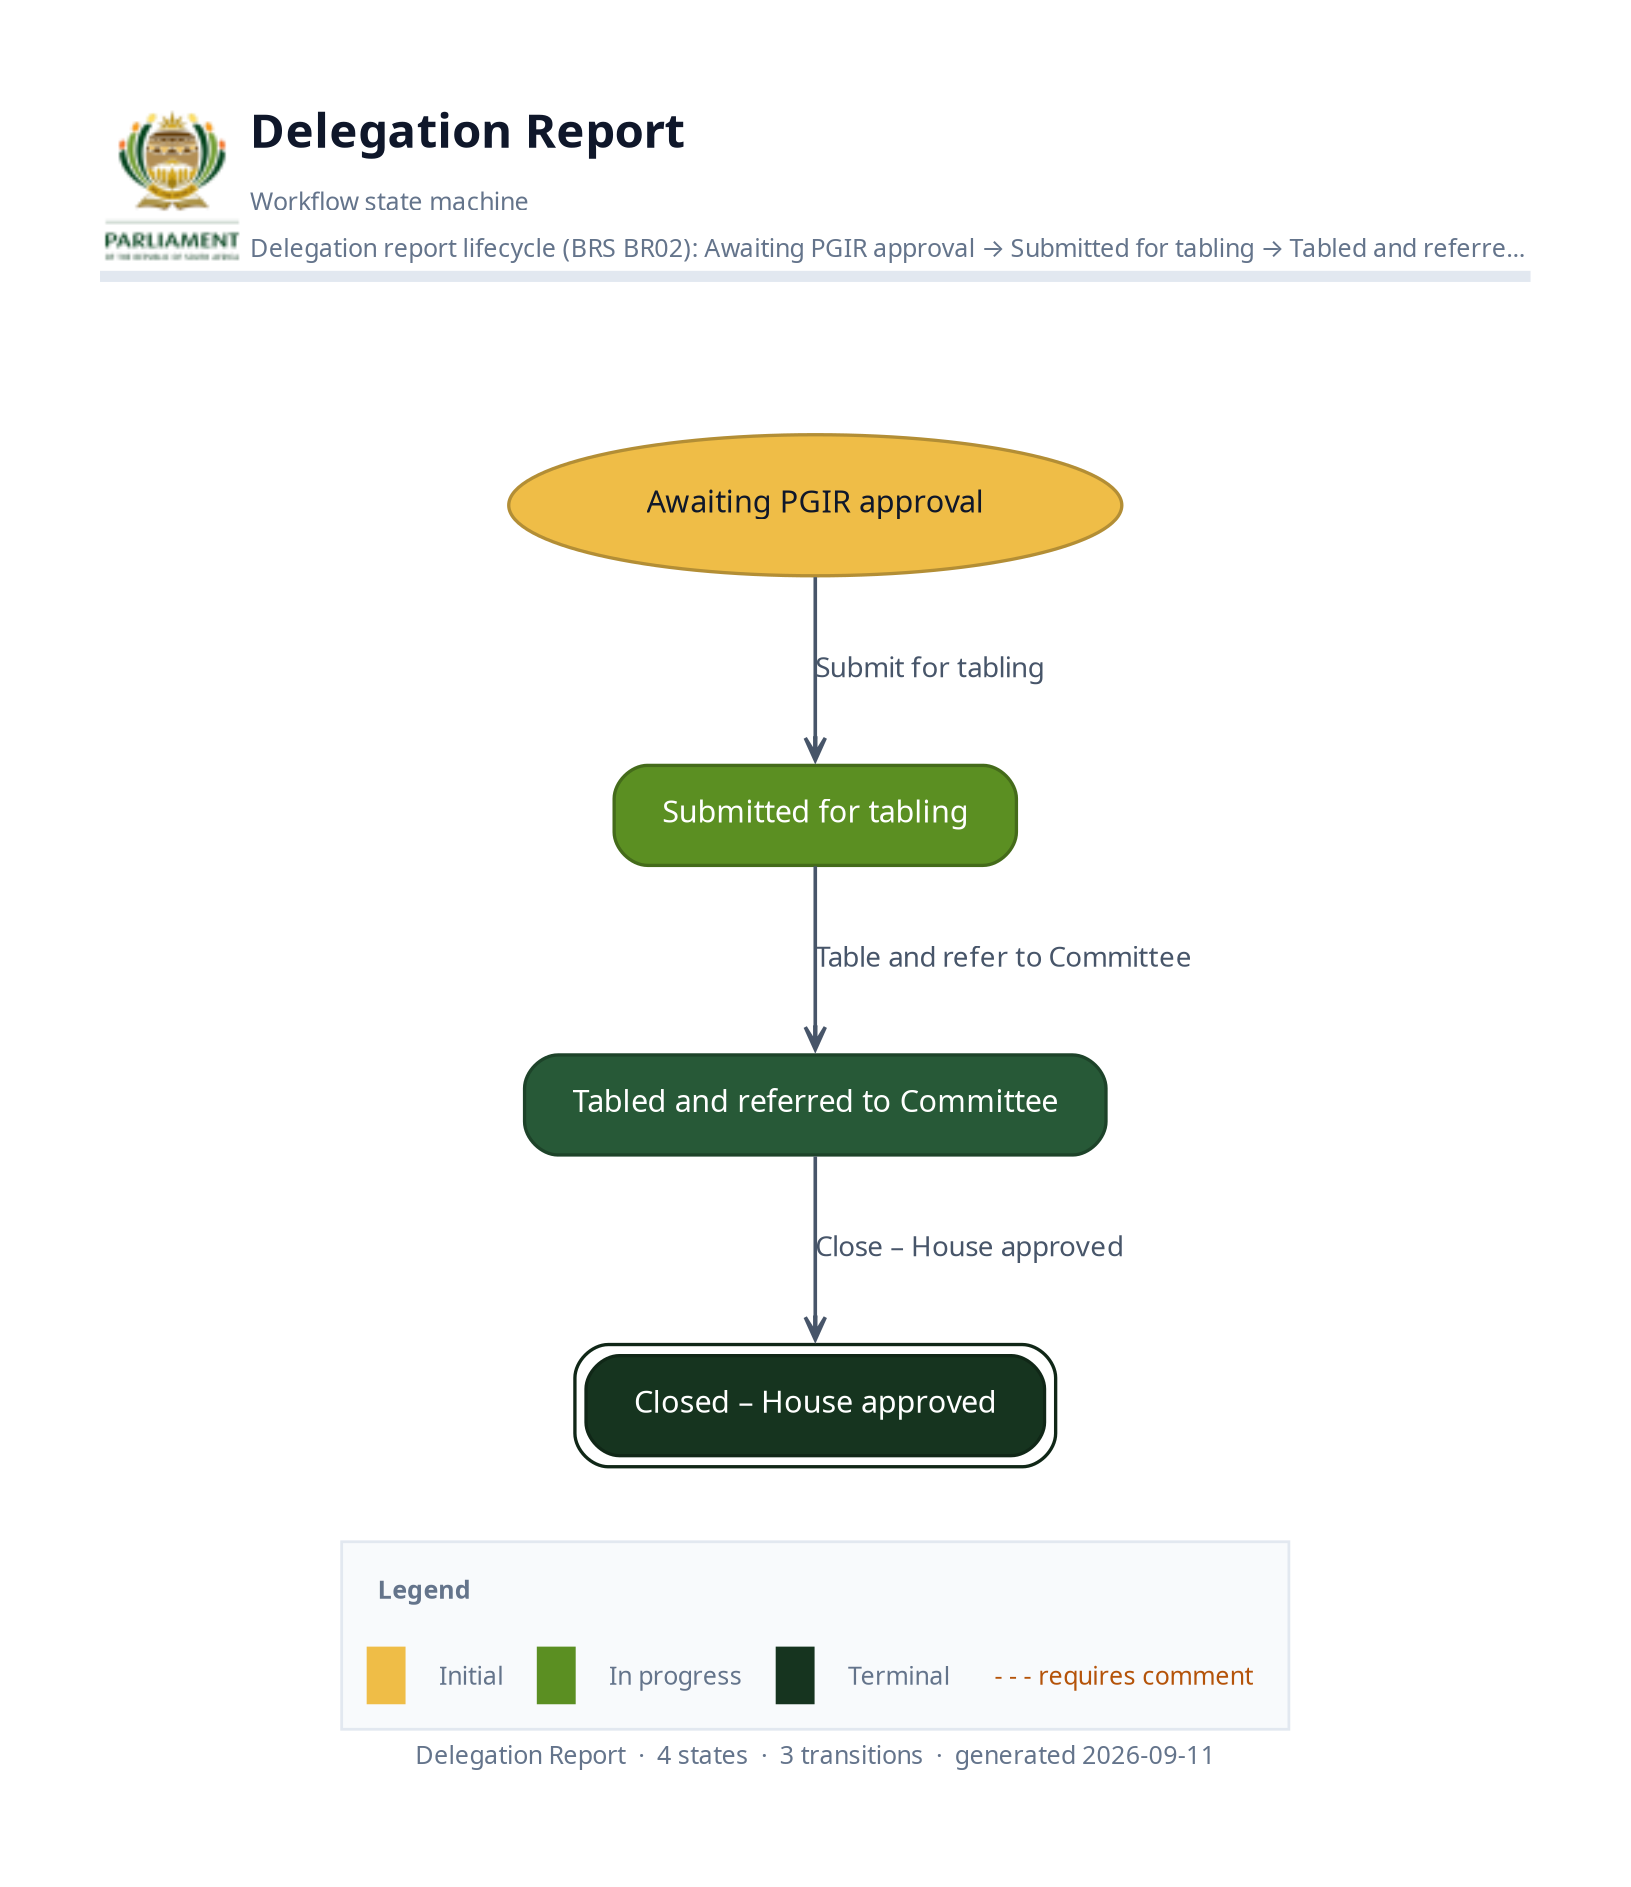
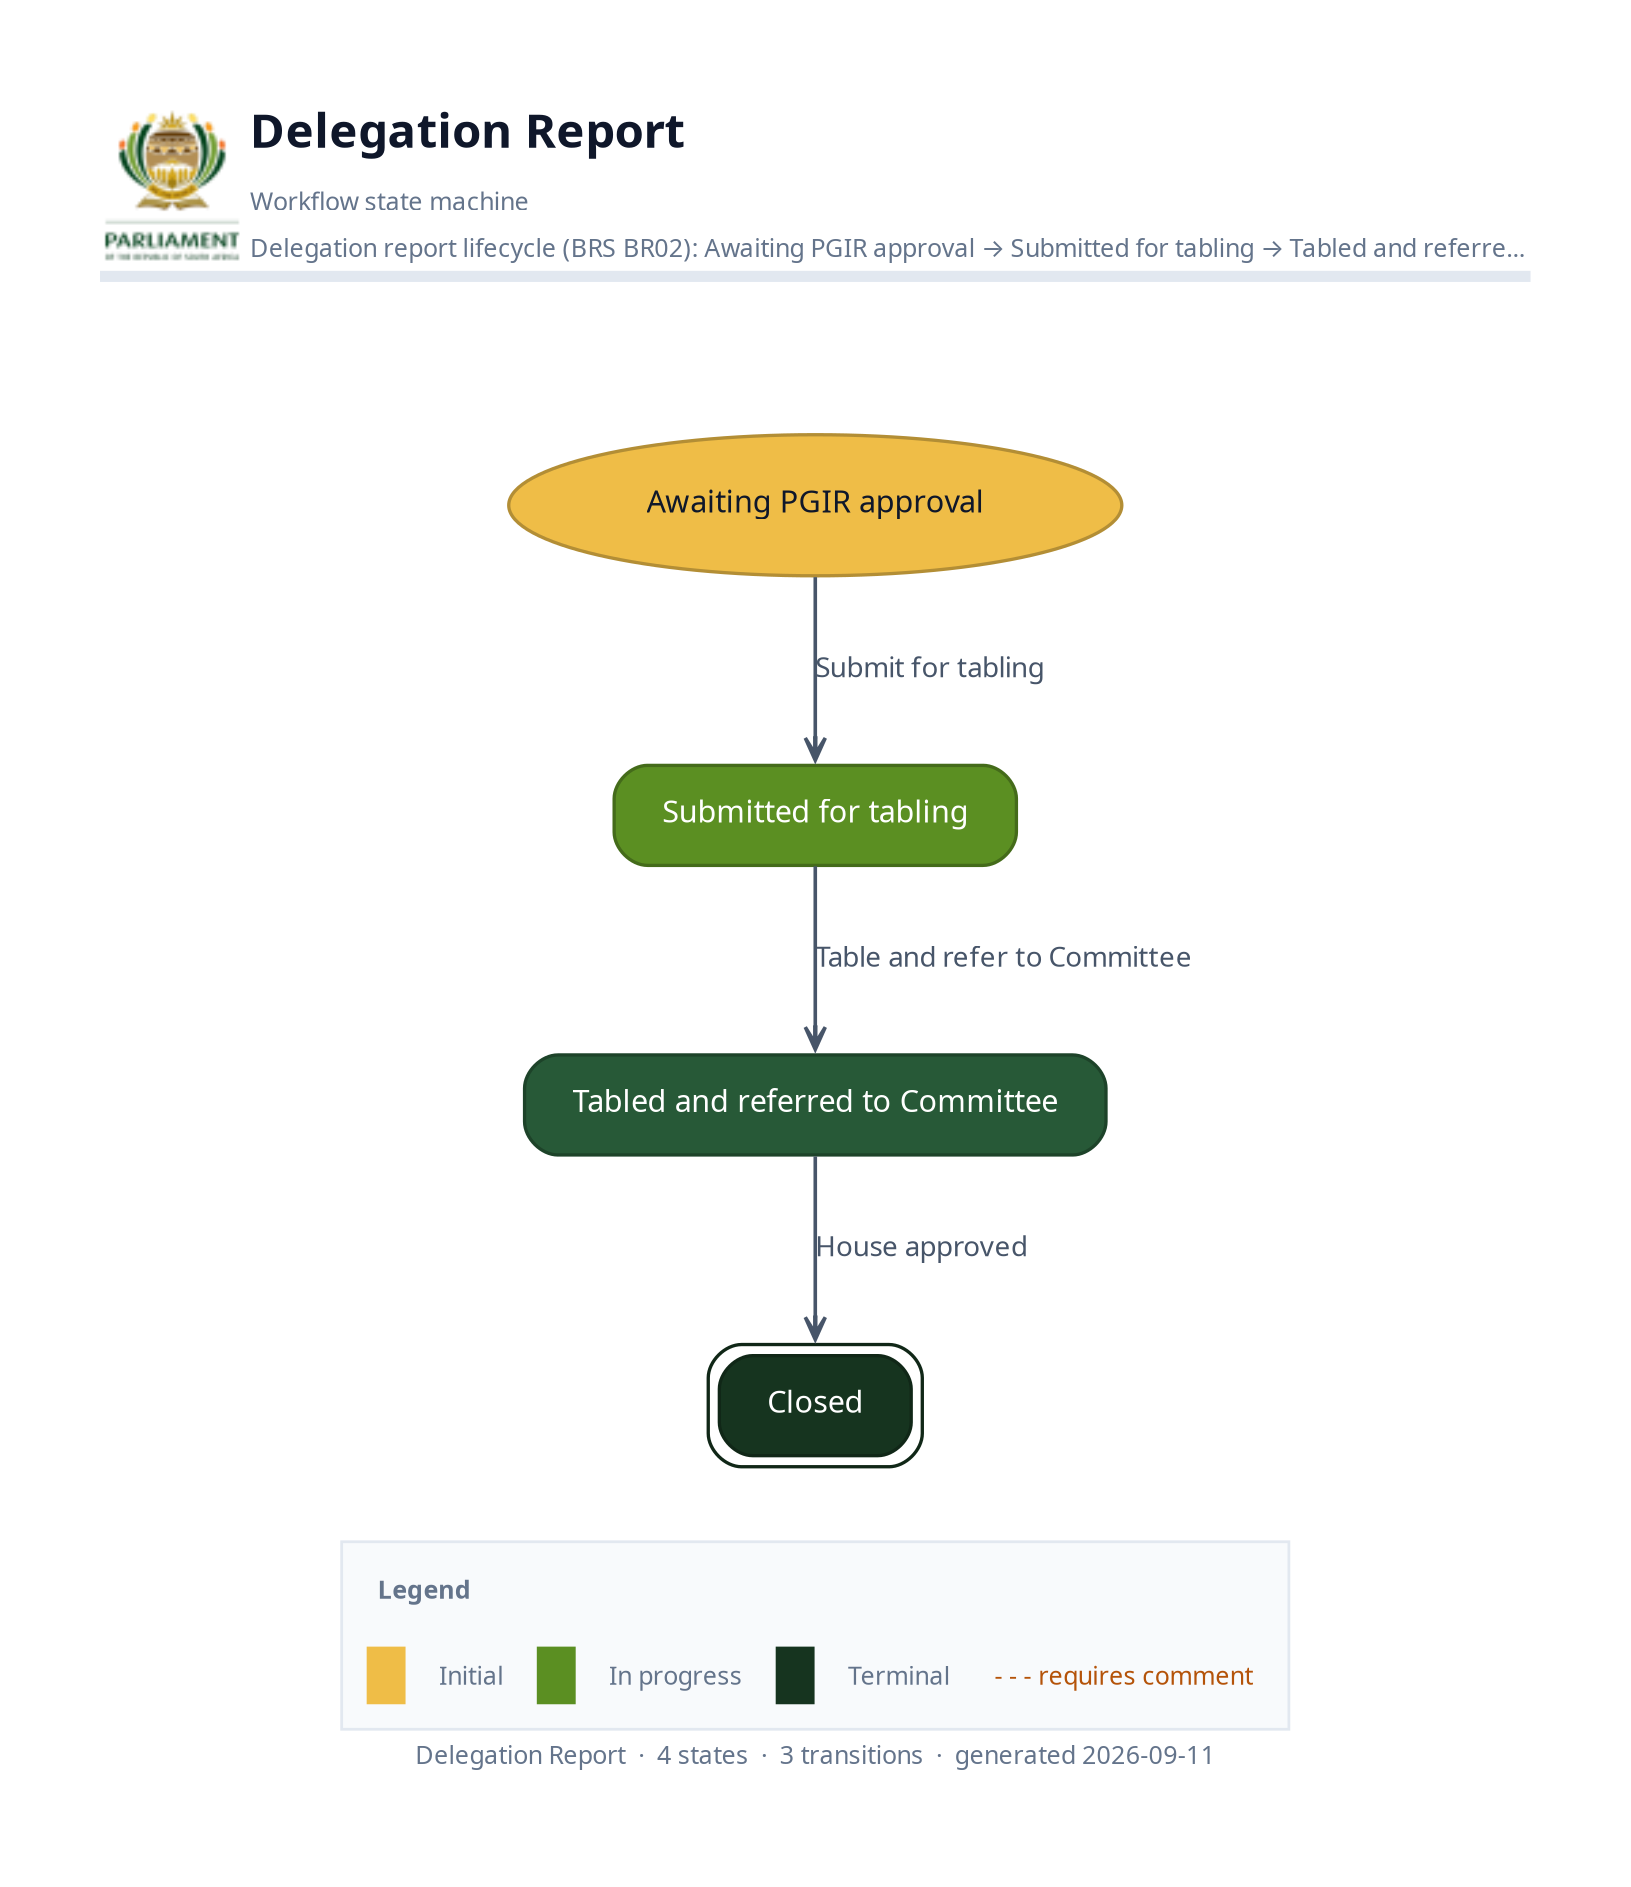
refactor: update delegation report workflow to simplify closed state description

Changed region(s): [[0.3372, 0.7069, 0.6438, 0.7992], [0.4905, 0.6455, 0.6744, 0.6762]]

diff --git a/src/pwms/docs/delegation_report_workflow.md b/src/pwms/docs/delegation_report_workflow.md
@@ -12,8 +12,8 @@ flowchart TD
     s0(["Awaiting PGIR approval"]):::initial
     s1["Submitted for tabling"]:::regular
     s2["Tabled and referred to Committee"]:::regular
-    s3[["Closed – House approved"]]:::terminal
+    s3[["Closed"]]:::terminal
     s0 -->|"Submit for tabling"| s1
     s1 -->|"Table and refer to Committee"| s2
-    s2 -->|"Close – House approved"| s3
+    s2 -->|"House approved"| s3
 ```
